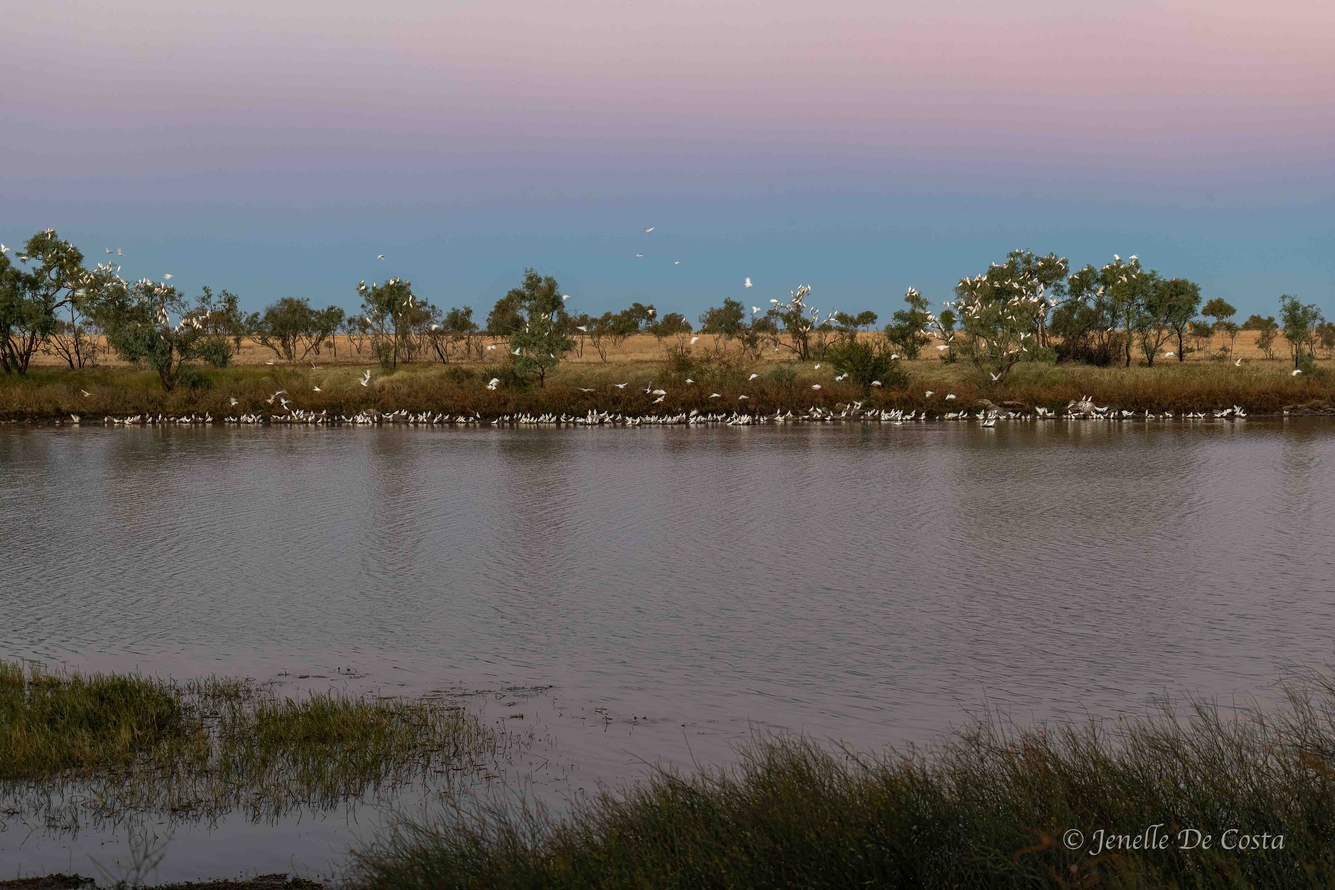
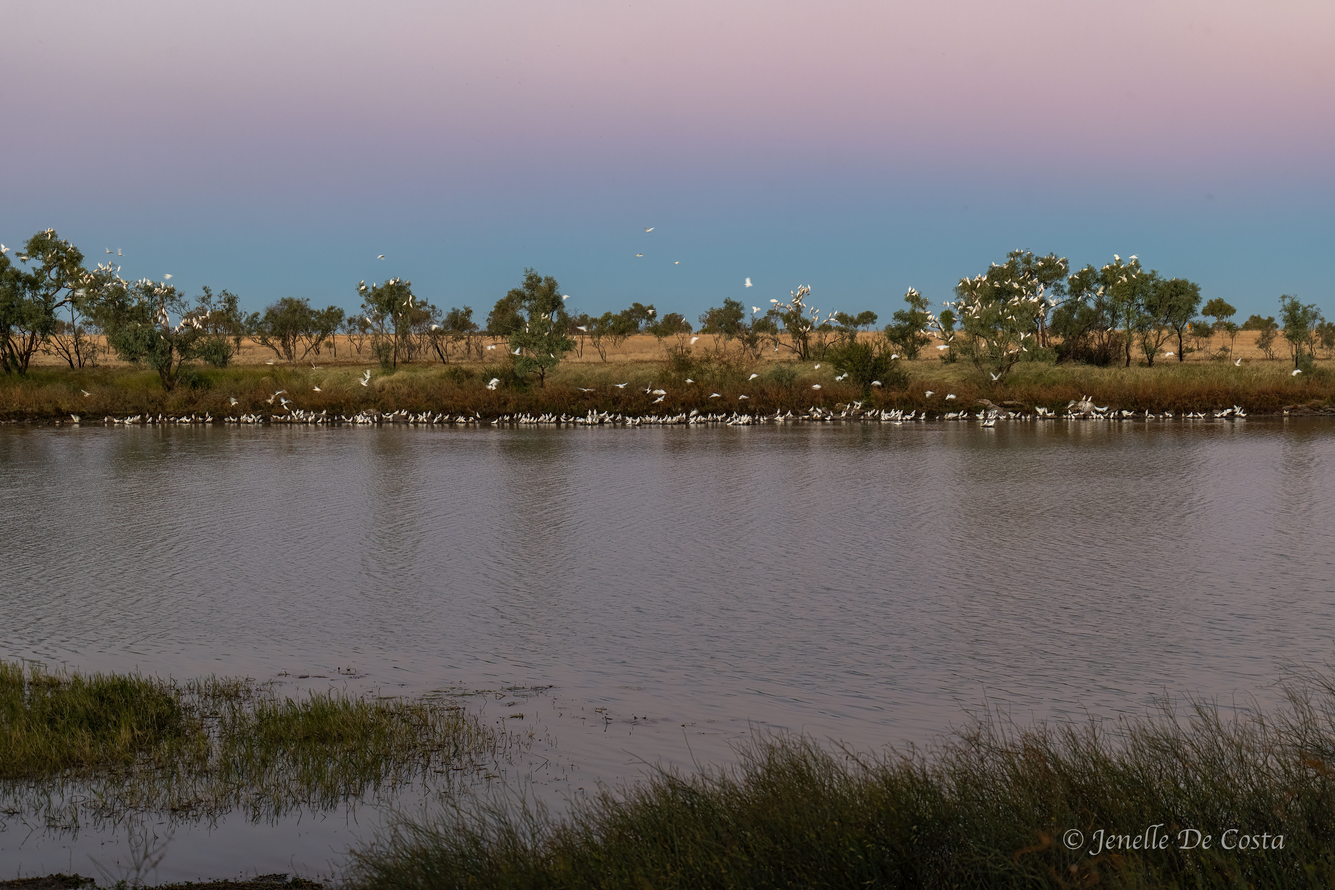
upgraded photos

diff --git a/Posts/2025-06-14_Camooweal.html b/Posts/2025-06-14_Camooweal.html
@@ -104,22 +104,12 @@
                                 max-width="600" max-height="400">
                             <figcaption class="image-caption">Billabong sunrise...</figcaption>
                         </figure>
-        <p></p>
-        <!-- <figure class="post-image center-l">
-                            <img class="image-shaddow" src="../image goes here" alt="..." max-width="600" max-height="400">
-                            <figcaption class="image-caption">...</figcaption>
-                        </figure> -->
-        <p></p>
-        <!-- <figure class="post-image center-l">
-                            <img class="image-shaddow" src="../image goes here" alt="..." max-width="600" max-height="400">
-                            <figcaption class="image-caption">...</figcaption>
-                        </figure> -->
-
+       
 
         <!-- Footer -->
         <footer class="center-l">
             <a href="/"><button type="button" class="home-button"> Home </button> </a>
-            <p class="copyright">Built by Mayer & Fleur &#169; 2025</p>
+            <p class="copyright">Built by hand by Mayer & Fleur &#169; 2025</p>
         </footer>
     </div>
 </body>

diff --git a/Posts/2025-06-05_Carnarvon_Gorge_Day-1.html b/Posts/2025-06-05_Carnarvon_Gorge_Day-1.html
@@ -123,7 +123,7 @@
         <!-- Footer -->
         <footer class="center-l">
             <a href="/"><button type="button" class="home-button"> Home </button> </a>
-            <p class="copyright">Built by Mayer & Fleur &#169; 2025</p>
+            <p class="copyright">Built by hand by Mayer & Fleur &#169; 2025</p>
         </footer>
     </div>
 </body>

diff --git a/Posts/2025-06-08_Lake_Maraboon_Emerald.html b/Posts/2025-06-08_Lake_Maraboon_Emerald.html
@@ -122,7 +122,7 @@
         <!-- Footer -->
         <footer class="center-l">
             <a href="/"><button type="button" class="home-button"> Home </button> </a>
-            <p class="copyright">Built by Mayer & Fleur &#169; 2025</p>
+            <p class="copyright">Built by hand by Mayer & Fleur &#169; 2025</p>
         </footer>
     </div>
 </body>

diff --git a/Posts/2025-06-09_Longreach.html b/Posts/2025-06-09_Longreach.html
@@ -119,7 +119,7 @@
         <!-- Footer -->
         <footer class="center-l">
             <a href="/"><button type="button" class="home-button"> Home </button> </a>
-            <p class="copyright">Built by Mayer & Fleur &#169; 2025</p>
+            <p class="copyright">Built by hand by Mayer & Fleur &#169; 2025</p>
         </footer>
     </div>
 </body>

diff --git a/Posts/2025-06-10_Kynuna.html b/Posts/2025-06-10_Kynuna.html
@@ -157,7 +157,7 @@
         <!-- Footer -->
         <footer class="center-l">
             <a href="/"><button type="button" class="home-button"> Home </button> </a>
-            <p class="copyright">Built by Mayer & Fleur &#169; 2025</p>
+            <p class="copyright">Built by hand by Mayer & Fleur &#169; 2025</p>
         </footer>
     </div>
 </body>

diff --git a/Posts/2025-06-11_Kynuna-Mt_Isa.html b/Posts/2025-06-11_Kynuna-Mt_Isa.html
@@ -103,7 +103,7 @@
         <!-- Footer -->
         <footer class="center-l">
             <a href="/"><button type="button" class="home-button"> Home </button> </a>
-            <p class="copyright">Built by Mayer & Fleur &#169; 2025</p>
+            <p class="copyright">Built by hand by Mayer & Fleur &#169; 2025</p>
         </footer>
     </div>
 </body>

diff --git a/Posts/2025-06-13_Mt_Isa.html b/Posts/2025-06-13_Mt_Isa.html
@@ -159,7 +159,7 @@
         <!-- Footer -->
         <footer class="center-l">
             <a href="/"><button type="button" class="home-button"> Home </button> </a>
-            <p class="copyright">Built by Mayer & Fleur &#169; 2025</p>
+            <p class="copyright">Built by hand by Mayer & Fleur &#169; 2025</p>
         </footer>
     </div>
 </body>

diff --git a/Posts/2025-06-03_Home-Roma.html b/Posts/2025-06-03_Home-Roma.html
@@ -72,7 +72,7 @@
         <!-- Footer -->
         <footer class="center-l">
             <a href="/"><button type="button" class="home-button"> Home </button> </a>
-            <p class="copyright">Built by Mayer & Fleur &#169; 2025</p>
+            <p class="copyright">Built by hand by Mayer & Fleur &#169; 2025</p>
         </footer>
     </div>
 </body>

diff --git a/Posts/2025-06-07_Carnarvon_Gorge_Day_2.html b/Posts/2025-06-07_Carnarvon_Gorge_Day_2.html
@@ -94,7 +94,7 @@
         <!-- Footer -->
         <footer class="center-l">
             <a href="/"><button type="button" class="home-button"> Home </button> </a>
-            <p class="copyright">Built by Mayer & Fleur &#169; 2025</p>
+            <p class="copyright">Built by hand by Mayer & Fleur &#169; 2025</p>
         </footer>
     </div>
 </body>
